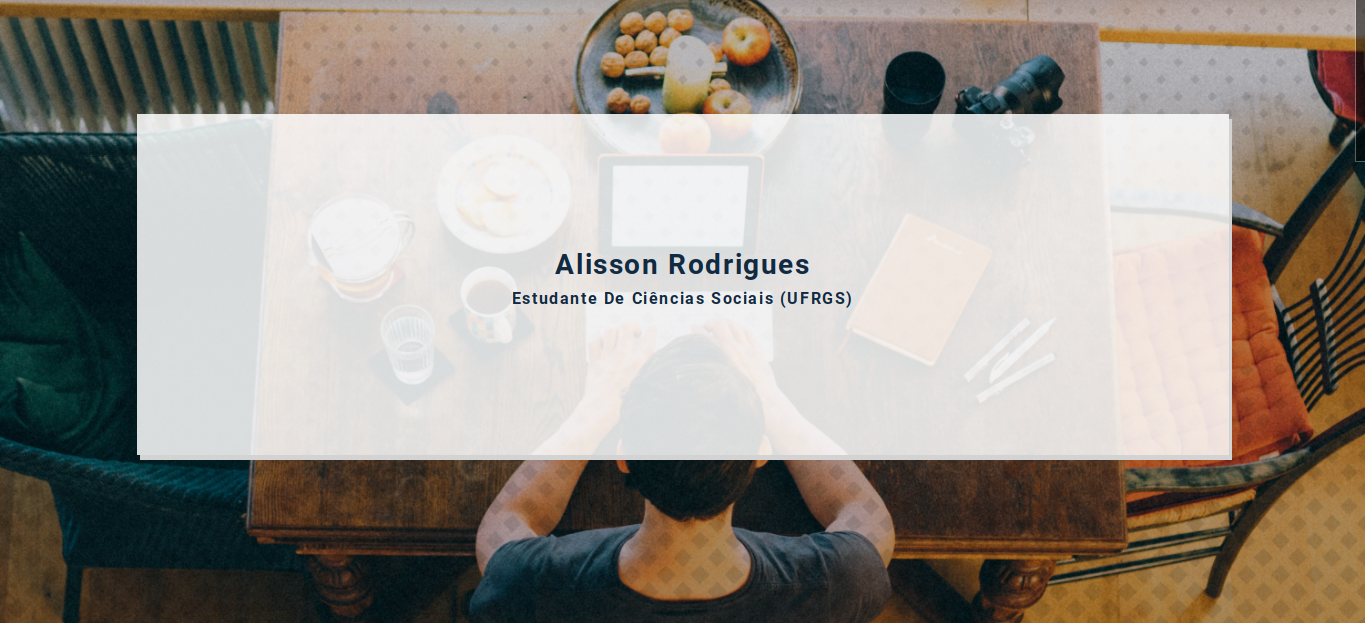
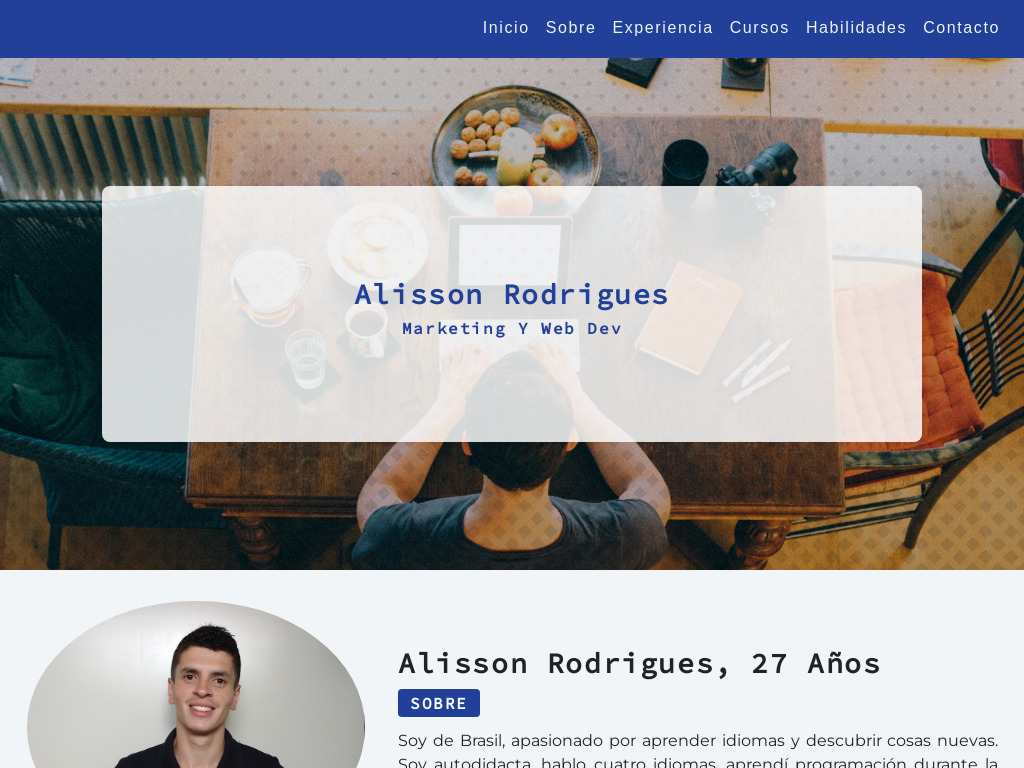
portfolio added;
fixed language options, max-widht, toggle buttom;

about changed

diff --git a/src/index.css b/src/index.css
@@ -60,7 +60,15 @@ Global Styles
   margin: 0;
   padding: 0;
   box-sizing: border-box;
+  max-width: 100%;
+  -ms-overflow-style: none;  /* IE and Edge */
+  scrollbar-width: none;  /* Firefox */
 }
+*::-webkit-scrollbar {
+  display: none;
+}
+
+
 body {
   font-family: -apple-system, BlinkMacSystemFont, "Segoe UI", Roboto, Oxygen,
     Ubuntu, Cantarell, "Open Sans", "Helvetica Neue", sans-serif;
@@ -68,6 +76,7 @@ body {
   color: var(--clr-black);
   line-height: 1.5;
   font-size: 0.875rem;
+  
 }
 main {
   display: flex;
@@ -288,25 +297,30 @@ Language Choice
 }
 .flag-box {
   width: 80vw;
+  min-width: 150px;
   margin-top: 2rem;
-  padding: 2vw 0 4vw 0;
+  padding: 5vw 0 10vw 0;
   background: rgba(255, 255, 255, 0.83);
   display: flex;
   flex-direction: column;
+  justify-content: center;
   font-size: 2vw;
   color: var(--clr-blue);
   border-radius: var(--radius-50);
 }
 .flag-box img {
   width: auto;
-  height: 30vh;
+  height: 7rem;
   margin: 3vw;
 }
 @media screen and (max-width: 800px) {
   .flag-box img {
-    height: 15vh;
-    width: auto;
+    float: center;
+    width:  7rem;
+    height: 5rem;
+    object-fit: cover;
     margin: 1.5vw;
+    min-width: 100px;
   }
 }
 
@@ -614,6 +628,54 @@ Skills
 
 /*
 =============== 
+Portfolio
+=============== 
+*/
+
+.portfolio{
+  width: 95vw;
+  margin: 0vw auto 5vw auto;
+  padding: 5vw 0 10vw 0;
+  background: var(--clr-white);
+  box-shadow: var(--light-shadow);
+  display: flex;
+  flex-direction: column;
+  place-items: center;
+  
+}
+
+.portf-list{
+  padding: 5vw 0 0vw 0;
+  display: flex;
+  flex-wrap: wrap;
+  gap: 10vw;
+  align-items: center;
+  justify-content: center;
+}
+
+.portf-item{
+  position: relative;
+  display: flex;
+  flex-direction: column;
+  align-items: center;
+  text-align: center;
+  flex: 0 1 15rem;
+  
+    
+}
+
+.portf-item img {
+  width: 15rem;
+  height: 15rem;
+  border-radius: 50%;
+  background: var(--clr-white);
+  box-shadow: var(--light-shadow);
+}
+
+
+
+/*
+=============== 
 Contact
 =============== 
 */
@@ -690,4 +752,21 @@ Contact
   transform: var(--transition);
   background-color: var(--clr-grey-10);
   color: var(--clr-blue);
+}
+
+
+
+/*
+=============== 
+Footer
+=============== 
+*/
+
+footer {
+  gap: 1rem;
+  margin-bottom: 3rem;
+  text-align: center;
+}
+footer a {
+  margin: 0 .5rem 0 .5rem;
 }

diff --git a/src/App.jsx b/src/App.jsx
@@ -7,12 +7,17 @@ import Experiences from './Experiences'
 import Skills from './Skills'
 import Navbar from './Navbar'
 import LanguageChoice from './LanguageChoice'
+import Portfolio from './Portfolio'
+
 
 import { AiOutlineRight, AiOutlineLeft } from "react-icons/ai";
 
 function App() {
-  const refer = document.referrer //identifies the redirection to avoid Language Choice
-  console.log(refer)
+  const mexicoFlag = "mexico-flag.png";
+  const brazilFlag = "brazil-flag.png";
+  
+  const refer = document.referrer //identifies the redirection 
+  
   const [lang, setLang] = useState(0)
   
 
@@ -22,7 +27,7 @@ function App() {
     <Skills lang={lang}/>
   ]);
 
-  const [index, setIndex] = useState(0);
+  const [index, setIndex] = useState(1);
 
   console.log(index)
   useEffect(() => {
@@ -34,8 +39,12 @@ function App() {
       setIndex(0);
     }
   }, [index, activeSection]);
-  console.log(`lang is ${lang}`)
-  if(lang === 0 && refer !== 'https://alisson-rodrigues.netlify.app/')return <LanguageChoice setLang={setLang} />
+  
+
+  caches.keys().then((cache)=> setLang(cache[0]))
+  
+  
+  if(lang != 0)return <LanguageChoice setLang={setLang} brazilFlag={brazilFlag} mexicoFlag={mexicoFlag} />
 
   return (
     <main>
@@ -51,9 +60,18 @@ function App() {
         </button>
         {activeSection[index]}
       </div>
+      <Portfolio />
       <Contact lang={lang}/>
       <footer>
-        <h4>{"</> Criado por Alisson Rodrigues </>"}</h4>
+        <div>
+          <a href='https://alisson-rodrigues-pt.netlify.app/'>
+            <img src={brazilFlag} height="25" />
+          </a>
+          <a href='https://alisson-rodrigues.netlify.app/'>
+            <img src={mexicoFlag} height="25" />
+          </a>
+        </div>
+        <h4>{"</> Creado por Alisson Rodrigues </>"}</h4>
       </footer>
     </main>
   );

diff --git a/src/data.jsx b/src/data.jsx
@@ -35,16 +35,21 @@ export const links = [
   },
   {
     id: 3,
-    url: "#experiences",
+    url: "#education",
     text: "cursos"
   },
   {
     id: 4,
-    url: "#experiences",
+    url: "#skills",
     text: "Habilidades"
   },
   {
     id: 5,
+    url: "#portfolio",
+    text: "Portfólio"
+  },
+  {
+    id: 6,
     url: "#contact-box",
     text: "Contato"
   }
@@ -243,6 +248,11 @@ export const skills = [
     fill: "#83a6ed"
   },
   {
+    subject: "WordPress",
+    nivel: 3,
+    fill: "#83a6ed"
+  },
+  {
     subject: "Francês",
     nivel: 3,
     fill: "#83a6ed"
@@ -272,6 +282,6 @@ export const infos = [
     photo:
       "https://lh3.googleusercontent.com/pw/ACtC-3fFEeC-7dVdDJVXEqhtUiUbXS3LzzYMT4gkf_uo-JfzKTM9-6VGyAoWQTuE0mXItvnQ0ZXXG_t6Rhrc_E5jLt5IYpswTQqdZ-J7pAomjs7XLa1TjYpq6gsZxG4GQq6ECWxMRvbZnLEv-ZlL9OpEgZlMeQ=w908-h681-no?authuser=0",
     about:
-      'Aprender, evoluir e explorar limites são os condutores de todas as experiências que escolhi. Buscar novos conhecimentos é o objetivo em todas as atividades que empreendo. Meus interesses são um misto de muitas áreas. Vão da sociedade, economia e inovação, até o marketing e programação. Acredito que a inovação depende do fluxo constante entre diferentes campos. Como disse Lavoisier: "na natureza nada se cria e nada se perde, tudo se transforma".'
+      'Sou gaúcho, apaixonado por aprender idiomas e descobrir coisas novas. Sou autodidata, falo quatro idiomas, aprendi programação durante a pandemia e venho trabalhando, desde o México, como freelancer neste último ano.'
   }
 ];

diff --git a/src/LanguageChoice.jsx b/src/LanguageChoice.jsx
@@ -1,10 +1,24 @@
 import React from "react";
 import {websites} from './data'
 
-function Language({setLang}) {
-  const spanishFlag = "spanish-flag.png";
-  const brazilFlag = "brazil-flag.png";
+function Language({setLang, brazilFlag, mexicoFlag}) {
+  const refer = document.referrer.toString()
+  
 
+  const setLanguage = (cacheName, url,num)=>{
+    
+    const data = new Response(JSON.stringify(url));
+  
+
+    if ('caches' in window) {
+      // Opening given cache and putting our data into it
+      caches.open(num).then((cache) => {
+        cache.put(cacheName, data);
+      });
+    }
+    setLang(num);
+    
+  }
   return (
     <header
     className="language"
@@ -12,12 +26,12 @@ function Language({setLang}) {
       <div className='flag-box'>
         <h3>Idioma</h3>
         <div>
-          <a href='#' onClick={()=>setLang(1)}>
-            <img src={brazilFlag} alt='bandeira do brasil'    width='100'/>
+          <a href='#' onClick={()=> setLanguage("portuguese",refer, 0)}>
+            <img src={brazilFlag} alt='portugues'    height='100'/>
           </a>
 
-          <a href='https://alisson-rodrigues.netlify.app/' onClick={()=>setLang(2)}>
-            <img src={spanishFlag} alt='bandera de españa'  width='100'/>
+          <a href='https://alisson-rodrigues.netlify.app/'>
+            <img src={mexicoFlag} alt='español'  height='100'/>
           </a>
         </div>
       </div>

diff --git a/src/Portfolio.jsx b/src/Portfolio.jsx
@@ -1,0 +1,39 @@
+import React, { useState } from "react";
+
+
+function Portfolio() {
+  const firstImg = "tugueder_v2.png";
+  const secondgImg = "sites-preview.png";
+  
+
+  return (
+    <section id="portfolio" className="portfolio">
+      <h3>
+        Portfólio
+      </h3>
+    <div className="portf-list">
+      <div className="portf-item">
+        <h4>Ecommerce - WordPress</h4>
+        <a 
+          href="https://tugueder.epizy.com/"
+          target="_blank">
+            <img src={firstImg} />
+        </a>
+      </div>
+      <div className="portf-item">
+        <h4>Single Page App - React</h4>
+        <a 
+          href="https://alisson-rodrigues.netlify.app/"
+          target="_blank">
+            <img src={secondgImg} />
+        </a>
+      </div>
+    </div>
+
+
+      
+    </section>
+  );
+}
+
+export default Portfolio;

diff --git a/src/Navbar.jsx b/src/Navbar.jsx
@@ -10,6 +10,7 @@ const Navbar = ({ setIndex }) => {
     setShowLinks(!showLinks);
   };
 
+
   useEffect(() => {
     const linksHeight = linksRef.current.getBoundingClientRect().height;
     if (showLinks) {
@@ -34,7 +35,12 @@ const Navbar = ({ setIndex }) => {
                 <li key={id}>
                   <a
                     onClick={() => {
-                      return setIndex(id - 2);
+                      const timer = setTimeout(() => {
+                        setShowLinks(false)
+                      }, 1000);
+                      () => clearTimeout(timer);
+                      return setIndex(id - 2)
+                      
                     }}
                     href={url}
                   >

diff --git a/src/Education.jsx b/src/Education.jsx
@@ -8,7 +8,7 @@ function Education() {
   const { title, field, institution, dates, names, certified } = courses[value];
 
   return (
-    <section>
+    <section id="education" >
       <div className="title">
         <h2>Cursos</h2>
         <div className="underline"></div>

diff --git a/src/Experiences.jsx b/src/Experiences.jsx
@@ -9,7 +9,7 @@ function Experiences() {
   const { company, dates, duties, title } = experiences[value];
 
   return (
-    <section>
+    <section id="experiences">
       <div className="title">
         <h2>{links[2].text}</h2>
         <div className="underline"></div>

diff --git a/src/Home.jsx b/src/Home.jsx
@@ -11,7 +11,7 @@ function Home() {
     >
       <div className="header-box">
         <h3>Alisson Rodrigues</h3>
-        <h4>Estudante de Ciências Sociais (UFRGS)</h4>
+        <h4>Marketing e Web Dev</h4>
       </div>
     </header>
   );
